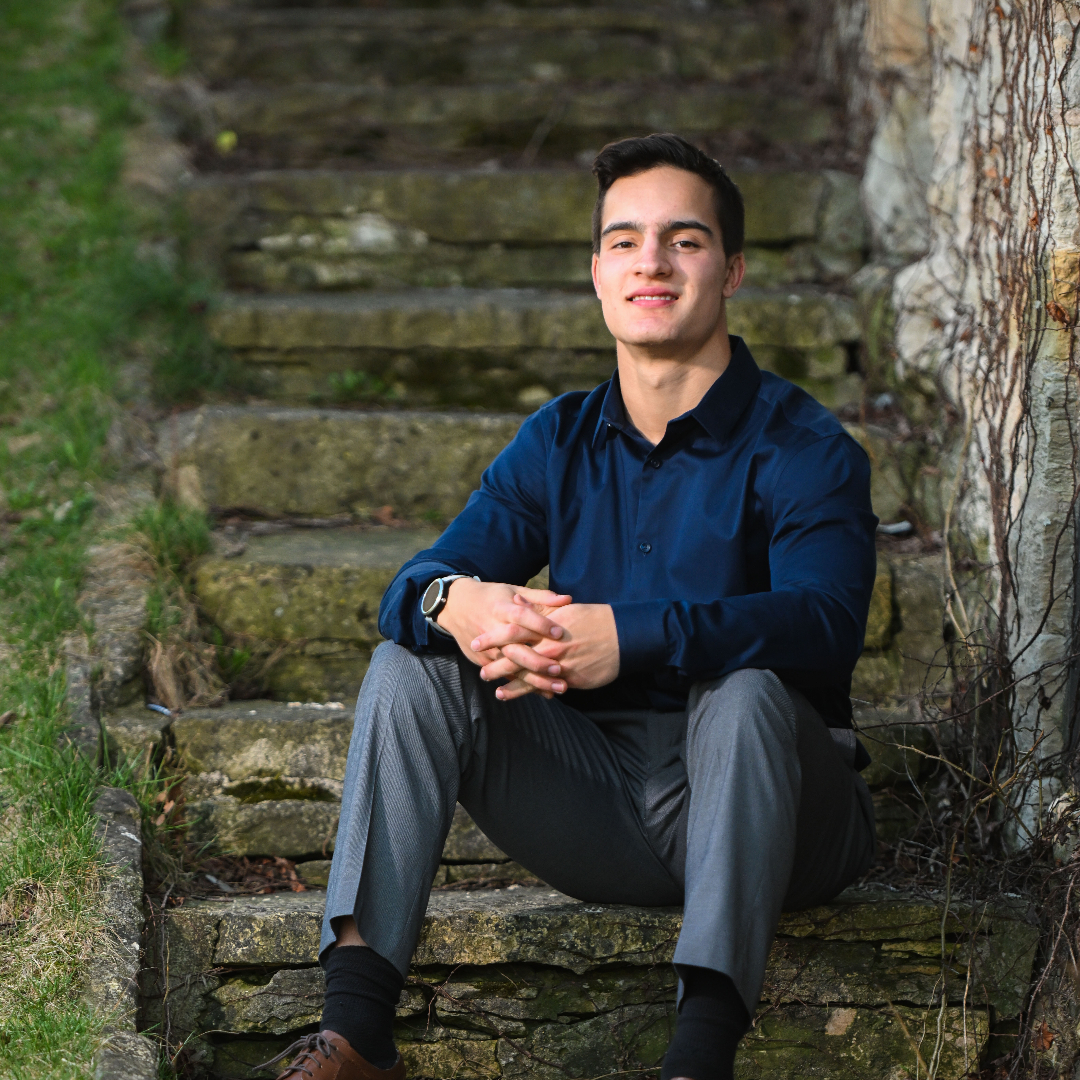
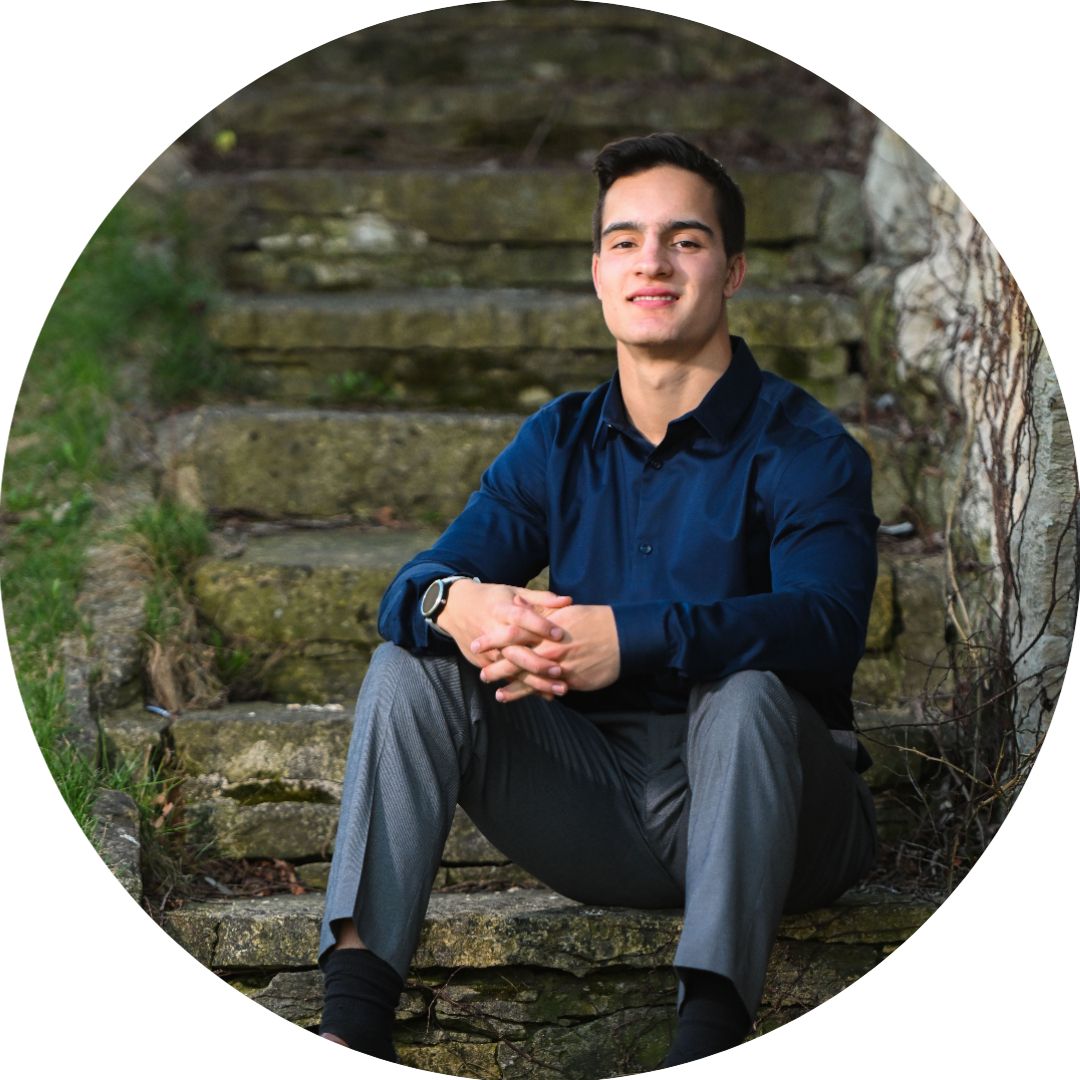
Fix image border on mobile and add minimal Readme
On an iPhone, the filter CSS property would not take the border-radius
into effect, causing a border to appear around the image during the
animation. Now, the clip-path property is used. If that property is not
supported on a web browser, it will default to the same behavior as
before. I also made the image circular by default so, in case clip-path
isn't supported, the image will still be round.

diff --git a/styles/styles.css b/styles/styles.css
@@ -281,8 +281,12 @@ input, textarea {
 
 #about img {
   width: 575px;
-  border-radius: 50%;
-  filter: blur(12px);
+  /* Used instead of border-radius because filter doesn't take border-radius into account
+   * on iPhones. If clip-path is unsupported in a browser, the image is still circular but
+   * the same issue will still happen on iPhones.
+   * */
+  clip-path: circle();
+  filter: blur(10px);
 }
 
 #about.animate img {

diff --git a/README.md b/README.md
@@ -1,0 +1,1 @@
+This repository holds the source code to my personal website. The website can be found at https://joeyholtzman.com.
